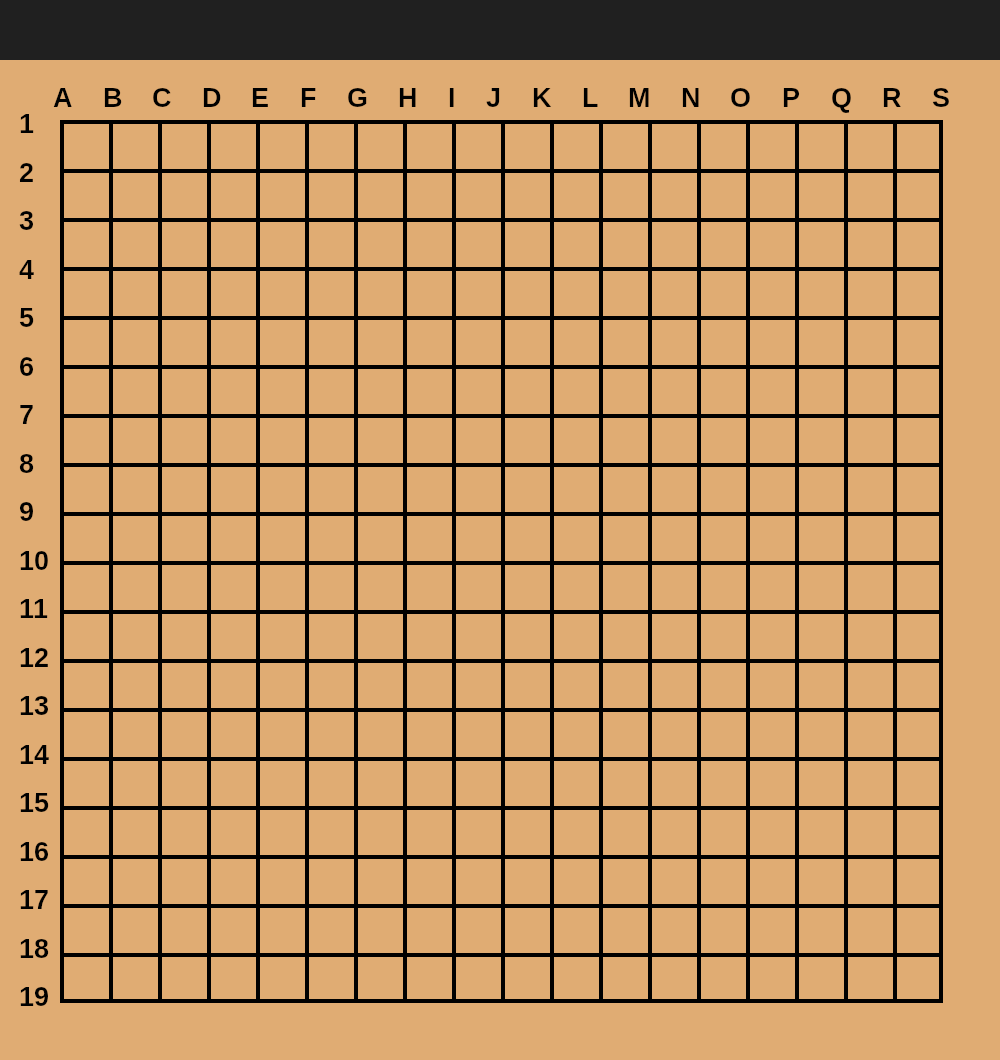
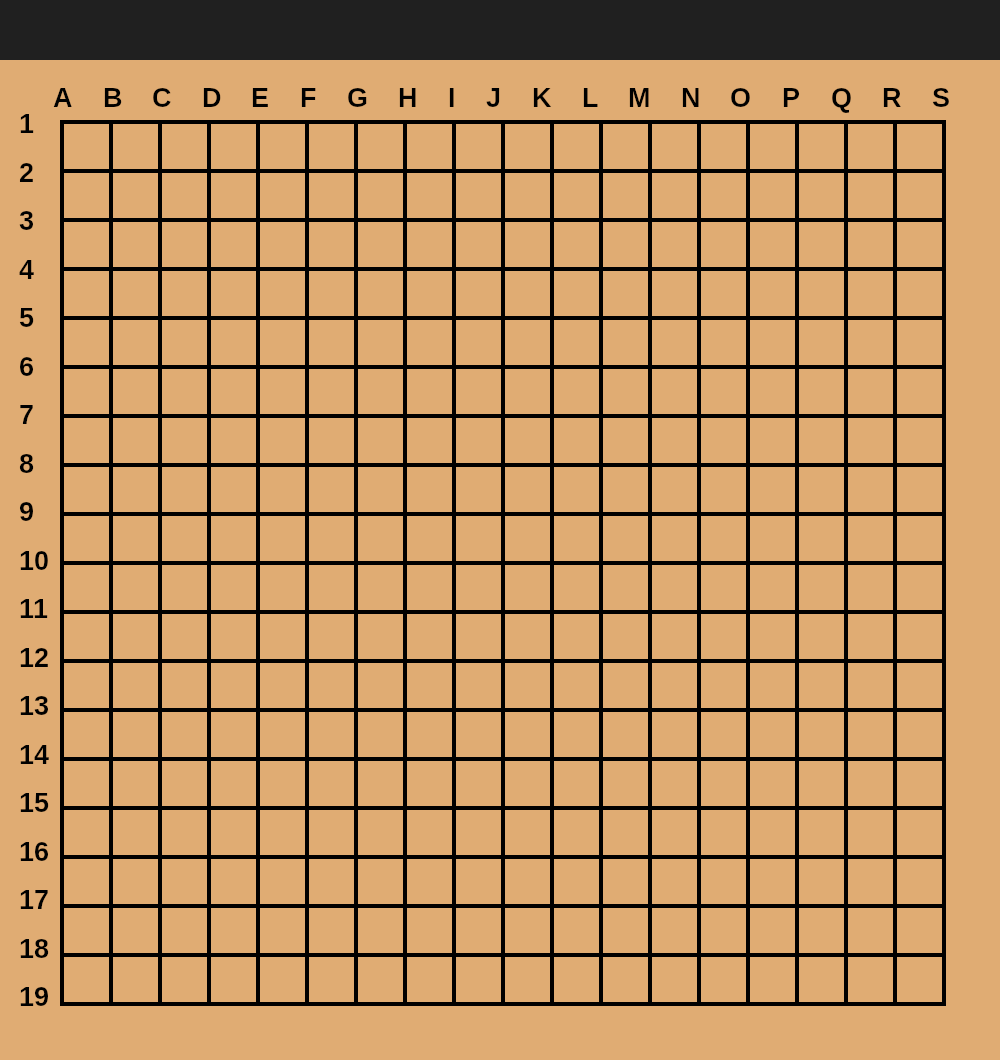
add images

Changed region(s): [[0.062, 0.1245, 0.961, 0.9651]]

diff --git a/gui.py b/gui.py
@@ -1,1 +1,37 @@
 #!/usr/bin/env python3
+import pygame
+from pathlib import Path
+
+# Colors
+BLACK = (0, 0, 0)
+WHITE = (255, 255, 255)
+
+def nearest(c, base=60):
+    c0 = base * round(c[0]/base)
+    c1 = base * round(c[1]/base)
+    return (c0, c1)
+
+
+screen = pygame.display.set_mode((1000, 1060))
+light_background = pygame.image.load(Path("img/board.png"))
+dark_background = pygame.image.load(Path("img/board_dark.png"))
+
+
+running = True
+while running:
+    for event in pygame.event.get():
+        if event.type == pygame.QUIT:
+            running = False
+
+    screen.blit(light_background, (0, 0))
+
+    pos = pygame.mouse.get_pos()
+
+    if 1003 > pos[1] > 120 and 940 > pos[0] > 60:
+        pygame.draw.circle(
+            screen, BLACK, nearest(pygame.mouse.get_pos()), 30
+        )
+
+    pygame.display.flip()
+
+pygame.quit()
